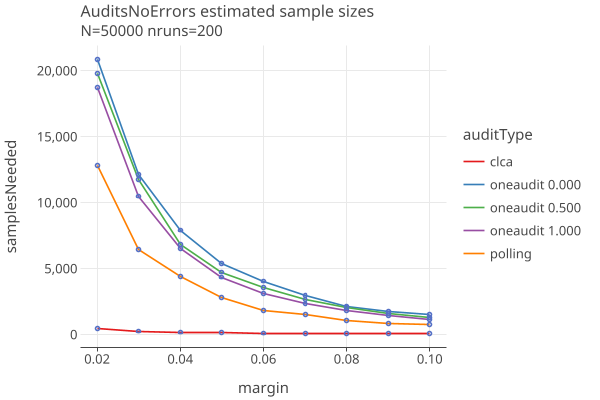
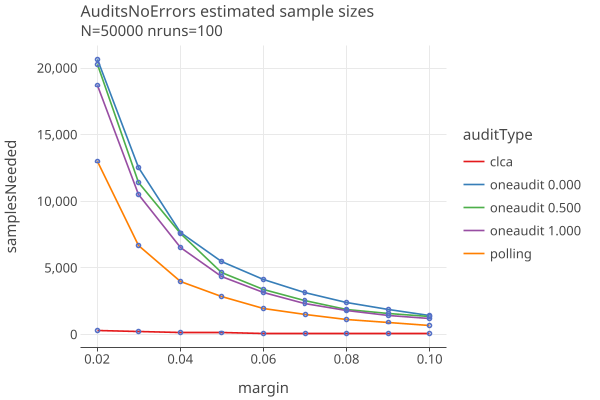
redo plots with WorkflowGenerators, to get smoother plots.

diff --git a/docs/plots/workflows/AuditsNoErrors/AuditsNoErrorsLog.html b/docs/plots/workflows/AuditsNoErrors/AuditsNoErrorsLog.html
@@ -5,12 +5,12 @@
        &lt;script type=&quot;text/javascript&quot; data-lets-plot-script=&quot;library&quot; src=&quot;https://cdn.jsdelivr.net/gh/JetBrains/lets-plot@v4.3.3/js-package/distr/lets-plot.min.js&quot;>&lt;/script>
    &lt;/head>
    &lt;body>
-          &lt;div id=&quot;PbZ8fu&quot;>&lt;/div>
+          &lt;div id=&quot;2LenBm&quot;>&lt;/div>
    &lt;script type=&quot;text/javascript&quot; data-lets-plot-script=&quot;plot&quot;>
        var plotSpec={
 &quot;ggtitle&quot;:{
 &quot;text&quot;:&quot;AuditsNoErrors estimated sample sizes&quot;,
-&quot;subtitle&quot;:&quot;N=50000 nruns=200&quot;
+&quot;subtitle&quot;:&quot;N=50000 nruns=100&quot;
 },
 &quot;mapping&quot;:{
 },
@@ -43,8 +43,8 @@
 &quot;stat&quot;:&quot;identity&quot;,
 &quot;data&quot;:{
 &quot;&amp;merged_groups&quot;:[&quot;clca&quot;,&quot;clca&quot;,&quot;clca&quot;,&quot;clca&quot;,&quot;clca&quot;,&quot;clca&quot;,&quot;clca&quot;,&quot;clca&quot;,&quot;clca&quot;,&quot;oneaudit 0.000&quot;,&quot;oneaudit 0.000&quot;,&quot;oneaudit 0.000&quot;,&quot;oneaudit 0.000&quot;,&quot;oneaudit 0.000&quot;,&quot;oneaudit 0.000&quot;,&quot;oneaudit 0.000&quot;,&quot;oneaudit 0.000&quot;,&quot;oneaudit 0.000&quot;,&quot;oneaudit 0.500&quot;,&quot;oneaudit 0.500&quot;,&quot;oneaudit 0.500&quot;,&quot;oneaudit 0.500&quot;,&quot;oneaudit 0.500&quot;,&quot;oneaudit 0.500&quot;,&quot;oneaudit 0.500&quot;,&quot;oneaudit 0.500&quot;,&quot;oneaudit 0.500&quot;,&quot;oneaudit 1.000&quot;,&quot;oneaudit 1.000&quot;,&quot;oneaudit 1.000&quot;,&quot;oneaudit 1.000&quot;,&quot;oneaudit 1.000&quot;,&quot;oneaudit 1.000&quot;,&quot;oneaudit 1.000&quot;,&quot;oneaudit 1.000&quot;,&quot;oneaudit 1.000&quot;,&quot;polling&quot;,&quot;polling&quot;,&quot;polling&quot;,&quot;polling&quot;,&quot;polling&quot;,&quot;polling&quot;,&quot;polling&quot;,&quot;polling&quot;,&quot;polling&quot;],
-&quot;margin&quot;:[0.02,0.03,0.04,0.05,0.06,0.07004,0.08002,0.09,0.1,0.02,0.03,0.04,0.05,0.06,0.07,0.08,0.09,0.1,0.02,0.03,0.04,0.05,0.06,0.07,0.08,0.09,0.1,0.02,0.03,0.04,0.05,0.06,0.07,0.08,0.09,0.1,0.02,0.03,0.04,0.05,0.06,0.07004,0.08002,0.09,0.1],
-&quot;log10(samplesNeeded)&quot;:[2.6414741105040997,2.439332693830263,2.294466226161593,2.1818435879447726,2.089905111439398,2.0086001717619175,1.9444826721501687,1.8864907251724818,1.8325089127062364,4.323547443761257,4.084897858461355,3.884819144742785,3.748075173331955,3.583724598180119,3.4756276114410807,3.353923920882947,3.2709977449996006,3.162186399890635,4.2883350919959,4.054295834824989,3.859082129715072,3.698797555193283,3.540415198814099,3.423260623310262,3.3304076850661155,3.1842171380781865,3.125656899859546,4.272584149110043,4.0217266644137775,3.813714391881145,3.6406801532776654,3.4940153747571436,3.367355921026019,3.255995726722402,3.156851901070011,3.0674428427763805,4.152863250960604,3.9031752089218887,3.6193777212573295,3.316738597567665,3.281025408898964,3.1685284192737058,2.9486452120908995,2.8562786579356194,2.786105176895488],
+&quot;margin&quot;:[0.02,0.03,0.04,0.05,0.06,0.07004,0.08,0.09,0.1,0.02,0.03,0.04,0.05,0.06,0.07,0.08,0.09,0.1,0.02,0.03,0.04,0.05,0.06,0.07,0.08,0.09,0.1,0.02,0.03,0.04,0.05,0.06,0.07,0.08,0.09,0.1,0.02,0.03,0.04,0.05002,0.06002,0.07004,0.08,0.09002,0.10002],
+&quot;log10(samplesNeeded)&quot;:[2.4725077920788094,2.294466226161593,2.1697038169945717,2.0718820073061255,1.9912260756924949,1.919078092376074,1.863322860120456,1.8129133566428555,1.7634279935629373,4.3153261890072825,4.097434671138254,3.882366273385968,3.737002497823517,3.6131237444851507,3.5012688238125733,3.384914068076313,3.2680605350907097,3.1593897097810526,4.306509519097144,4.05863894358761,3.879162424150548,3.67021986886627,3.530472487806604,3.413073335354132,3.276774199988959,3.196507791939696,3.1324838250005618,4.272584149110043,4.0217266644137775,3.813714391881145,3.6406801532776654,3.4940153747571436,3.367355921026019,3.255995726722402,3.156851901070011,3.0674428427763805,4.114867749137179,3.8258692744477507,3.6031237945886385,3.4514993686980673,3.28542902692649,3.17508542729306,3.0620853638402528,2.9733495643925187,2.83146663358453],
 &quot;auditType&quot;:[&quot;clca&quot;,&quot;clca&quot;,&quot;clca&quot;,&quot;clca&quot;,&quot;clca&quot;,&quot;clca&quot;,&quot;clca&quot;,&quot;clca&quot;,&quot;clca&quot;,&quot;oneaudit 0.000&quot;,&quot;oneaudit 0.000&quot;,&quot;oneaudit 0.000&quot;,&quot;oneaudit 0.000&quot;,&quot;oneaudit 0.000&quot;,&quot;oneaudit 0.000&quot;,&quot;oneaudit 0.000&quot;,&quot;oneaudit 0.000&quot;,&quot;oneaudit 0.000&quot;,&quot;oneaudit 0.500&quot;,&quot;oneaudit 0.500&quot;,&quot;oneaudit 0.500&quot;,&quot;oneaudit 0.500&quot;,&quot;oneaudit 0.500&quot;,&quot;oneaudit 0.500&quot;,&quot;oneaudit 0.500&quot;,&quot;oneaudit 0.500&quot;,&quot;oneaudit 0.500&quot;,&quot;oneaudit 1.000&quot;,&quot;oneaudit 1.000&quot;,&quot;oneaudit 1.000&quot;,&quot;oneaudit 1.000&quot;,&quot;oneaudit 1.000&quot;,&quot;oneaudit 1.000&quot;,&quot;oneaudit 1.000&quot;,&quot;oneaudit 1.000&quot;,&quot;oneaudit 1.000&quot;,&quot;polling&quot;,&quot;polling&quot;,&quot;polling&quot;,&quot;polling&quot;,&quot;polling&quot;,&quot;polling&quot;,&quot;polling&quot;,&quot;polling&quot;,&quot;polling&quot;]
 },
 &quot;sampling&quot;:&quot;none&quot;,
@@ -59,8 +59,8 @@
 &quot;stat&quot;:&quot;identity&quot;,
 &quot;data&quot;:{
 &quot;&amp;merged_groups&quot;:[&quot;clca&quot;,&quot;clca&quot;,&quot;clca&quot;,&quot;clca&quot;,&quot;clca&quot;,&quot;clca&quot;,&quot;clca&quot;,&quot;clca&quot;,&quot;clca&quot;,&quot;oneaudit 0.000&quot;,&quot;oneaudit 0.000&quot;,&quot;oneaudit 0.000&quot;,&quot;oneaudit 0.000&quot;,&quot;oneaudit 0.000&quot;,&quot;oneaudit 0.000&quot;,&quot;oneaudit 0.000&quot;,&quot;oneaudit 0.000&quot;,&quot;oneaudit 0.000&quot;,&quot;oneaudit 0.500&quot;,&quot;oneaudit 0.500&quot;,&quot;oneaudit 0.500&quot;,&quot;oneaudit 0.500&quot;,&quot;oneaudit 0.500&quot;,&quot;oneaudit 0.500&quot;,&quot;oneaudit 0.500&quot;,&quot;oneaudit 0.500&quot;,&quot;oneaudit 0.500&quot;,&quot;oneaudit 1.000&quot;,&quot;oneaudit 1.000&quot;,&quot;oneaudit 1.000&quot;,&quot;oneaudit 1.000&quot;,&quot;oneaudit 1.000&quot;,&quot;oneaudit 1.000&quot;,&quot;oneaudit 1.000&quot;,&quot;oneaudit 1.000&quot;,&quot;oneaudit 1.000&quot;,&quot;polling&quot;,&quot;polling&quot;,&quot;polling&quot;,&quot;polling&quot;,&quot;polling&quot;,&quot;polling&quot;,&quot;polling&quot;,&quot;polling&quot;,&quot;polling&quot;],
-&quot;margin&quot;:[0.02,0.03,0.04,0.05,0.06,0.07004,0.08002,0.09,0.1,0.02,0.03,0.04,0.05,0.06,0.07,0.08,0.09,0.1,0.02,0.03,0.04,0.05,0.06,0.07,0.08,0.09,0.1,0.02,0.03,0.04,0.05,0.06,0.07,0.08,0.09,0.1,0.02,0.03,0.04,0.05,0.06,0.07004,0.08002,0.09,0.1],
-&quot;log10(samplesNeeded)&quot;:[2.6414741105040997,2.439332693830263,2.294466226161593,2.1818435879447726,2.089905111439398,2.0086001717619175,1.9444826721501687,1.8864907251724818,1.8325089127062364,4.323547443761257,4.084897858461355,3.884819144742785,3.748075173331955,3.583724598180119,3.4756276114410807,3.353923920882947,3.2709977449996006,3.162186399890635,4.2883350919959,4.054295834824989,3.859082129715072,3.698797555193283,3.540415198814099,3.423260623310262,3.3304076850661155,3.1842171380781865,3.125656899859546,4.272584149110043,4.0217266644137775,3.813714391881145,3.6406801532776654,3.4940153747571436,3.367355921026019,3.255995726722402,3.156851901070011,3.0674428427763805,4.152863250960604,3.9031752089218887,3.6193777212573295,3.316738597567665,3.281025408898964,3.1685284192737058,2.9486452120908995,2.8562786579356194,2.786105176895488],
+&quot;margin&quot;:[0.02,0.03,0.04,0.05,0.06,0.07004,0.08,0.09,0.1,0.02,0.03,0.04,0.05,0.06,0.07,0.08,0.09,0.1,0.02,0.03,0.04,0.05,0.06,0.07,0.08,0.09,0.1,0.02,0.03,0.04,0.05,0.06,0.07,0.08,0.09,0.1,0.02,0.03,0.04,0.05002,0.06002,0.07004,0.08,0.09002,0.10002],
+&quot;log10(samplesNeeded)&quot;:[2.4725077920788094,2.294466226161593,2.1697038169945717,2.0718820073061255,1.9912260756924949,1.919078092376074,1.863322860120456,1.8129133566428555,1.7634279935629373,4.3153261890072825,4.097434671138254,3.882366273385968,3.737002497823517,3.6131237444851507,3.5012688238125733,3.384914068076313,3.2680605350907097,3.1593897097810526,4.306509519097144,4.05863894358761,3.879162424150548,3.67021986886627,3.530472487806604,3.413073335354132,3.276774199988959,3.196507791939696,3.1324838250005618,4.272584149110043,4.0217266644137775,3.813714391881145,3.6406801532776654,3.4940153747571436,3.367355921026019,3.255995726722402,3.156851901070011,3.0674428427763805,4.114867749137179,3.8258692744477507,3.6031237945886385,3.4514993686980673,3.28542902692649,3.17508542729306,3.0620853638402528,2.9733495643925187,2.83146663358453],
 &quot;auditType&quot;:[&quot;clca&quot;,&quot;clca&quot;,&quot;clca&quot;,&quot;clca&quot;,&quot;clca&quot;,&quot;clca&quot;,&quot;clca&quot;,&quot;clca&quot;,&quot;clca&quot;,&quot;oneaudit 0.000&quot;,&quot;oneaudit 0.000&quot;,&quot;oneaudit 0.000&quot;,&quot;oneaudit 0.000&quot;,&quot;oneaudit 0.000&quot;,&quot;oneaudit 0.000&quot;,&quot;oneaudit 0.000&quot;,&quot;oneaudit 0.000&quot;,&quot;oneaudit 0.000&quot;,&quot;oneaudit 0.500&quot;,&quot;oneaudit 0.500&quot;,&quot;oneaudit 0.500&quot;,&quot;oneaudit 0.500&quot;,&quot;oneaudit 0.500&quot;,&quot;oneaudit 0.500&quot;,&quot;oneaudit 0.500&quot;,&quot;oneaudit 0.500&quot;,&quot;oneaudit 0.500&quot;,&quot;oneaudit 1.000&quot;,&quot;oneaudit 1.000&quot;,&quot;oneaudit 1.000&quot;,&quot;oneaudit 1.000&quot;,&quot;oneaudit 1.000&quot;,&quot;oneaudit 1.000&quot;,&quot;oneaudit 1.000&quot;,&quot;oneaudit 1.000&quot;,&quot;oneaudit 1.000&quot;,&quot;polling&quot;,&quot;polling&quot;,&quot;polling&quot;,&quot;polling&quot;,&quot;polling&quot;,&quot;polling&quot;,&quot;polling&quot;,&quot;polling&quot;,&quot;polling&quot;]
 },
 &quot;size&quot;:1.0,
@@ -75,7 +75,7 @@
 }
 }]
 };
-       var plotContainer = document.getElementById(&quot;PbZ8fu&quot;);
+       var plotContainer = document.getElementById(&quot;2LenBm&quot;);
        LetsPlot.buildPlotFromProcessedSpecs(plotSpec, -1, -1, plotContainer);
    &lt;/script>
    &lt;/body>

diff --git a/docs/plots/workflows/AuditsNoErrors/AuditsNoErrorsLinear.html b/docs/plots/workflows/AuditsNoErrors/AuditsNoErrorsLinear.html
@@ -5,12 +5,12 @@
        &lt;script type=&quot;text/javascript&quot; data-lets-plot-script=&quot;library&quot; src=&quot;https://cdn.jsdelivr.net/gh/JetBrains/lets-plot@v4.3.3/js-package/distr/lets-plot.min.js&quot;>&lt;/script>
    &lt;/head>
    &lt;body>
-          &lt;div id=&quot;67orJE&quot;>&lt;/div>
+          &lt;div id=&quot;45DF2f&quot;>&lt;/div>
    &lt;script type=&quot;text/javascript&quot; data-lets-plot-script=&quot;plot&quot;>
        var plotSpec={
 &quot;ggtitle&quot;:{
 &quot;text&quot;:&quot;AuditsNoErrors estimated sample sizes&quot;,
-&quot;subtitle&quot;:&quot;N=50000 nruns=200&quot;
+&quot;subtitle&quot;:&quot;N=50000 nruns=100&quot;
 },
 &quot;mapping&quot;:{
 },
@@ -42,9 +42,9 @@
 },
 &quot;stat&quot;:&quot;identity&quot;,
 &quot;data&quot;:{
-&quot;margin&quot;:[0.02,0.03002,0.04,0.05,0.06,0.07004,0.08,0.09,0.1,0.02,0.03,0.04,0.05,0.06,0.07,0.08,0.09,0.1,0.02,0.03,0.04,0.05,0.06,0.07,0.08,0.09,0.1,0.02,0.03,0.04,0.05,0.06,0.07,0.08,0.09,0.1,0.02,0.03002,0.04,0.05,0.06,0.07004,0.08,0.09,0.1],
 &quot;&amp;merged_groups&quot;:[&quot;clca&quot;,&quot;clca&quot;,&quot;clca&quot;,&quot;clca&quot;,&quot;clca&quot;,&quot;clca&quot;,&quot;clca&quot;,&quot;clca&quot;,&quot;clca&quot;,&quot;oneaudit 0.000&quot;,&quot;oneaudit 0.000&quot;,&quot;oneaudit 0.000&quot;,&quot;oneaudit 0.000&quot;,&quot;oneaudit 0.000&quot;,&quot;oneaudit 0.000&quot;,&quot;oneaudit 0.000&quot;,&quot;oneaudit 0.000&quot;,&quot;oneaudit 0.000&quot;,&quot;oneaudit 0.500&quot;,&quot;oneaudit 0.500&quot;,&quot;oneaudit 0.500&quot;,&quot;oneaudit 0.500&quot;,&quot;oneaudit 0.500&quot;,&quot;oneaudit 0.500&quot;,&quot;oneaudit 0.500&quot;,&quot;oneaudit 0.500&quot;,&quot;oneaudit 0.500&quot;,&quot;oneaudit 1.000&quot;,&quot;oneaudit 1.000&quot;,&quot;oneaudit 1.000&quot;,&quot;oneaudit 1.000&quot;,&quot;oneaudit 1.000&quot;,&quot;oneaudit 1.000&quot;,&quot;oneaudit 1.000&quot;,&quot;oneaudit 1.000&quot;,&quot;oneaudit 1.000&quot;,&quot;polling&quot;,&quot;polling&quot;,&quot;polling&quot;,&quot;polling&quot;,&quot;polling&quot;,&quot;polling&quot;,&quot;polling&quot;,&quot;polling&quot;,&quot;polling&quot;],
-&quot;samplesNeeded&quot;:[438.0,275.0,197.0,152.0,123.0,102.0,88.0,77.0,68.0,20883.55,12162.99,7934.495,5370.545,4064.37,2961.275,2135.97,1755.61,1554.19,19815.995,11783.37,6862.415,4748.44,3549.715,2659.165,2059.185,1573.15,1331.985,18732.0,10513.0,6512.0,4372.0,3119.0,2330.0,1803.0,1435.0,1168.0,12799.54,6431.74,4401.79,2829.8,1823.595,1499.83,1100.715,847.77,758.855],
+&quot;margin&quot;:[0.02,0.03,0.04,0.05,0.06,0.07004,0.08,0.09,0.1,0.02,0.03,0.04,0.05,0.06,0.07,0.08,0.09,0.1,0.02,0.03,0.04,0.05,0.06,0.07,0.08,0.09,0.1,0.02,0.03,0.04,0.05,0.06,0.07,0.08,0.09,0.1,0.02,0.03,0.04,0.05002,0.06002,0.07004,0.08,0.09002,0.10002],
+&quot;samplesNeeded&quot;:[296.83,197.0,147.81,118.0,98.0,83.0,73.0,65.0,58.0,20669.32,12515.11,7627.22,5457.61,4103.21,3171.53,2426.13,1853.79,1443.41,20253.94,11445.61,7571.16,4679.72,3392.13,2588.65,1891.36,1572.2,1356.7,18732.0,10513.0,6512.0,4372.0,3119.0,2330.0,1803.0,1435.0,1168.0,13027.7,6696.83,4009.81,2828.13,1929.43,1496.53,1153.68,940.48,678.37],
 &quot;auditType&quot;:[&quot;clca&quot;,&quot;clca&quot;,&quot;clca&quot;,&quot;clca&quot;,&quot;clca&quot;,&quot;clca&quot;,&quot;clca&quot;,&quot;clca&quot;,&quot;clca&quot;,&quot;oneaudit 0.000&quot;,&quot;oneaudit 0.000&quot;,&quot;oneaudit 0.000&quot;,&quot;oneaudit 0.000&quot;,&quot;oneaudit 0.000&quot;,&quot;oneaudit 0.000&quot;,&quot;oneaudit 0.000&quot;,&quot;oneaudit 0.000&quot;,&quot;oneaudit 0.000&quot;,&quot;oneaudit 0.500&quot;,&quot;oneaudit 0.500&quot;,&quot;oneaudit 0.500&quot;,&quot;oneaudit 0.500&quot;,&quot;oneaudit 0.500&quot;,&quot;oneaudit 0.500&quot;,&quot;oneaudit 0.500&quot;,&quot;oneaudit 0.500&quot;,&quot;oneaudit 0.500&quot;,&quot;oneaudit 1.000&quot;,&quot;oneaudit 1.000&quot;,&quot;oneaudit 1.000&quot;,&quot;oneaudit 1.000&quot;,&quot;oneaudit 1.000&quot;,&quot;oneaudit 1.000&quot;,&quot;oneaudit 1.000&quot;,&quot;oneaudit 1.000&quot;,&quot;oneaudit 1.000&quot;,&quot;polling&quot;,&quot;polling&quot;,&quot;polling&quot;,&quot;polling&quot;,&quot;polling&quot;,&quot;polling&quot;,&quot;polling&quot;,&quot;polling&quot;,&quot;polling&quot;]
 },
 &quot;sampling&quot;:&quot;none&quot;,
@@ -58,9 +58,9 @@
 },
 &quot;stat&quot;:&quot;identity&quot;,
 &quot;data&quot;:{
+&quot;margin&quot;:[0.02,0.03,0.04,0.05,0.06,0.07004,0.08,0.09,0.1,0.02,0.03,0.04,0.05,0.06,0.07,0.08,0.09,0.1,0.02,0.03,0.04,0.05,0.06,0.07,0.08,0.09,0.1,0.02,0.03,0.04,0.05,0.06,0.07,0.08,0.09,0.1,0.02,0.03,0.04,0.05002,0.06002,0.07004,0.08,0.09002,0.10002],
 &quot;&amp;merged_groups&quot;:[&quot;clca&quot;,&quot;clca&quot;,&quot;clca&quot;,&quot;clca&quot;,&quot;clca&quot;,&quot;clca&quot;,&quot;clca&quot;,&quot;clca&quot;,&quot;clca&quot;,&quot;oneaudit 0.000&quot;,&quot;oneaudit 0.000&quot;,&quot;oneaudit 0.000&quot;,&quot;oneaudit 0.000&quot;,&quot;oneaudit 0.000&quot;,&quot;oneaudit 0.000&quot;,&quot;oneaudit 0.000&quot;,&quot;oneaudit 0.000&quot;,&quot;oneaudit 0.000&quot;,&quot;oneaudit 0.500&quot;,&quot;oneaudit 0.500&quot;,&quot;oneaudit 0.500&quot;,&quot;oneaudit 0.500&quot;,&quot;oneaudit 0.500&quot;,&quot;oneaudit 0.500&quot;,&quot;oneaudit 0.500&quot;,&quot;oneaudit 0.500&quot;,&quot;oneaudit 0.500&quot;,&quot;oneaudit 1.000&quot;,&quot;oneaudit 1.000&quot;,&quot;oneaudit 1.000&quot;,&quot;oneaudit 1.000&quot;,&quot;oneaudit 1.000&quot;,&quot;oneaudit 1.000&quot;,&quot;oneaudit 1.000&quot;,&quot;oneaudit 1.000&quot;,&quot;oneaudit 1.000&quot;,&quot;polling&quot;,&quot;polling&quot;,&quot;polling&quot;,&quot;polling&quot;,&quot;polling&quot;,&quot;polling&quot;,&quot;polling&quot;,&quot;polling&quot;,&quot;polling&quot;],
-&quot;margin&quot;:[0.02,0.03002,0.04,0.05,0.06,0.07004,0.08,0.09,0.1,0.02,0.03,0.04,0.05,0.06,0.07,0.08,0.09,0.1,0.02,0.03,0.04,0.05,0.06,0.07,0.08,0.09,0.1,0.02,0.03,0.04,0.05,0.06,0.07,0.08,0.09,0.1,0.02,0.03002,0.04,0.05,0.06,0.07004,0.08,0.09,0.1],
-&quot;samplesNeeded&quot;:[438.0,275.0,197.0,152.0,123.0,102.0,88.0,77.0,68.0,20883.55,12162.99,7934.495,5370.545,4064.37,2961.275,2135.97,1755.61,1554.19,19815.995,11783.37,6862.415,4748.44,3549.715,2659.165,2059.185,1573.15,1331.985,18732.0,10513.0,6512.0,4372.0,3119.0,2330.0,1803.0,1435.0,1168.0,12799.54,6431.74,4401.79,2829.8,1823.595,1499.83,1100.715,847.77,758.855],
+&quot;samplesNeeded&quot;:[296.83,197.0,147.81,118.0,98.0,83.0,73.0,65.0,58.0,20669.32,12515.11,7627.22,5457.61,4103.21,3171.53,2426.13,1853.79,1443.41,20253.94,11445.61,7571.16,4679.72,3392.13,2588.65,1891.36,1572.2,1356.7,18732.0,10513.0,6512.0,4372.0,3119.0,2330.0,1803.0,1435.0,1168.0,13027.7,6696.83,4009.81,2828.13,1929.43,1496.53,1153.68,940.48,678.37],
 &quot;auditType&quot;:[&quot;clca&quot;,&quot;clca&quot;,&quot;clca&quot;,&quot;clca&quot;,&quot;clca&quot;,&quot;clca&quot;,&quot;clca&quot;,&quot;clca&quot;,&quot;clca&quot;,&quot;oneaudit 0.000&quot;,&quot;oneaudit 0.000&quot;,&quot;oneaudit 0.000&quot;,&quot;oneaudit 0.000&quot;,&quot;oneaudit 0.000&quot;,&quot;oneaudit 0.000&quot;,&quot;oneaudit 0.000&quot;,&quot;oneaudit 0.000&quot;,&quot;oneaudit 0.000&quot;,&quot;oneaudit 0.500&quot;,&quot;oneaudit 0.500&quot;,&quot;oneaudit 0.500&quot;,&quot;oneaudit 0.500&quot;,&quot;oneaudit 0.500&quot;,&quot;oneaudit 0.500&quot;,&quot;oneaudit 0.500&quot;,&quot;oneaudit 0.500&quot;,&quot;oneaudit 0.500&quot;,&quot;oneaudit 1.000&quot;,&quot;oneaudit 1.000&quot;,&quot;oneaudit 1.000&quot;,&quot;oneaudit 1.000&quot;,&quot;oneaudit 1.000&quot;,&quot;oneaudit 1.000&quot;,&quot;oneaudit 1.000&quot;,&quot;oneaudit 1.000&quot;,&quot;oneaudit 1.000&quot;,&quot;polling&quot;,&quot;polling&quot;,&quot;polling&quot;,&quot;polling&quot;,&quot;polling&quot;,&quot;polling&quot;,&quot;polling&quot;,&quot;polling&quot;,&quot;polling&quot;]
 },
 &quot;size&quot;:1.0,
@@ -75,7 +75,7 @@
 }
 }]
 };
-       var plotContainer = document.getElementById(&quot;67orJE&quot;);
+       var plotContainer = document.getElementById(&quot;45DF2f&quot;);
        LetsPlot.buildPlotFromProcessedSpecs(plotSpec, -1, -1, plotContainer);
    &lt;/script>
    &lt;/body>
